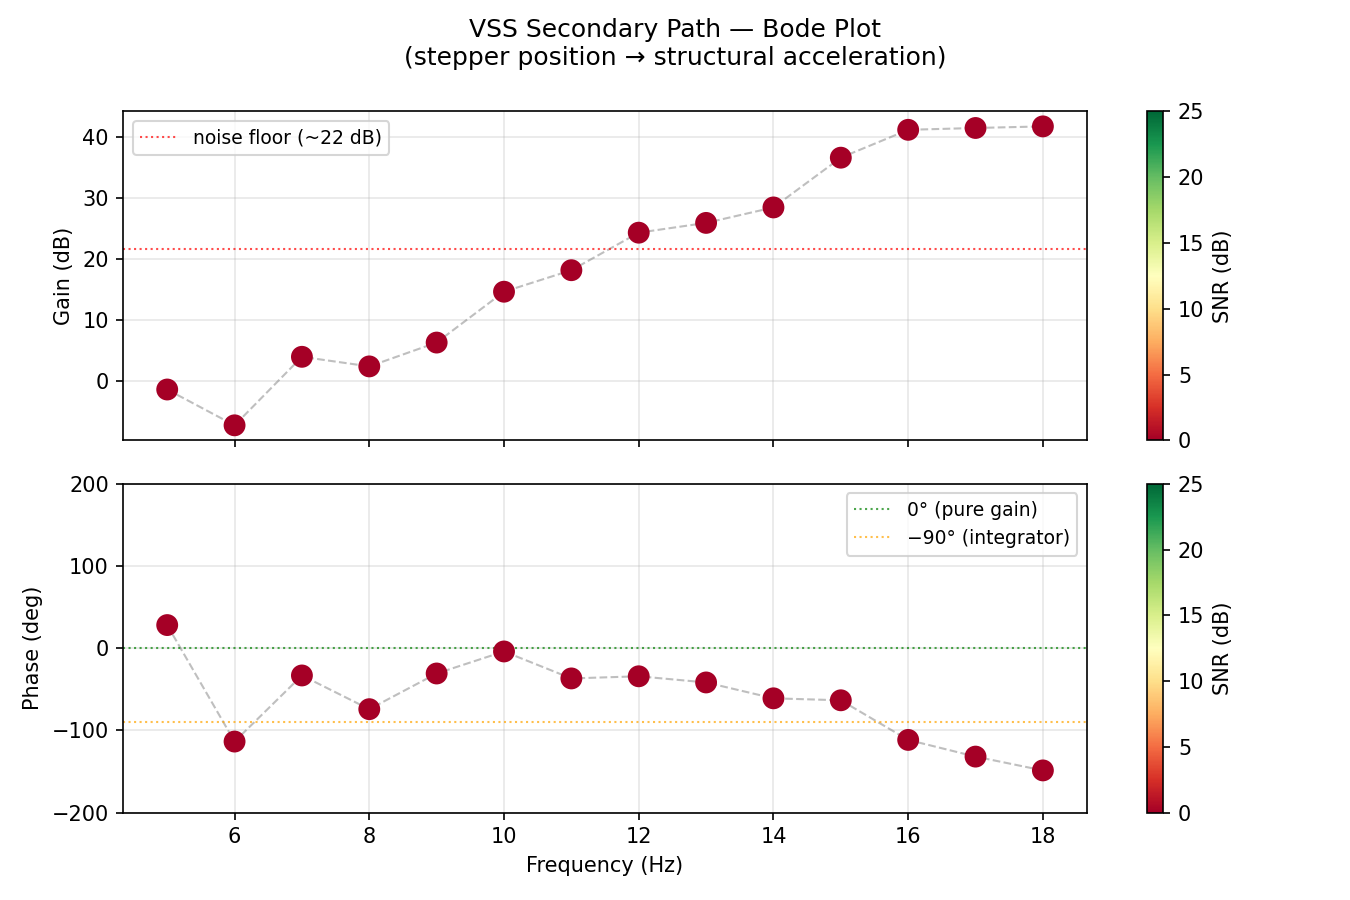
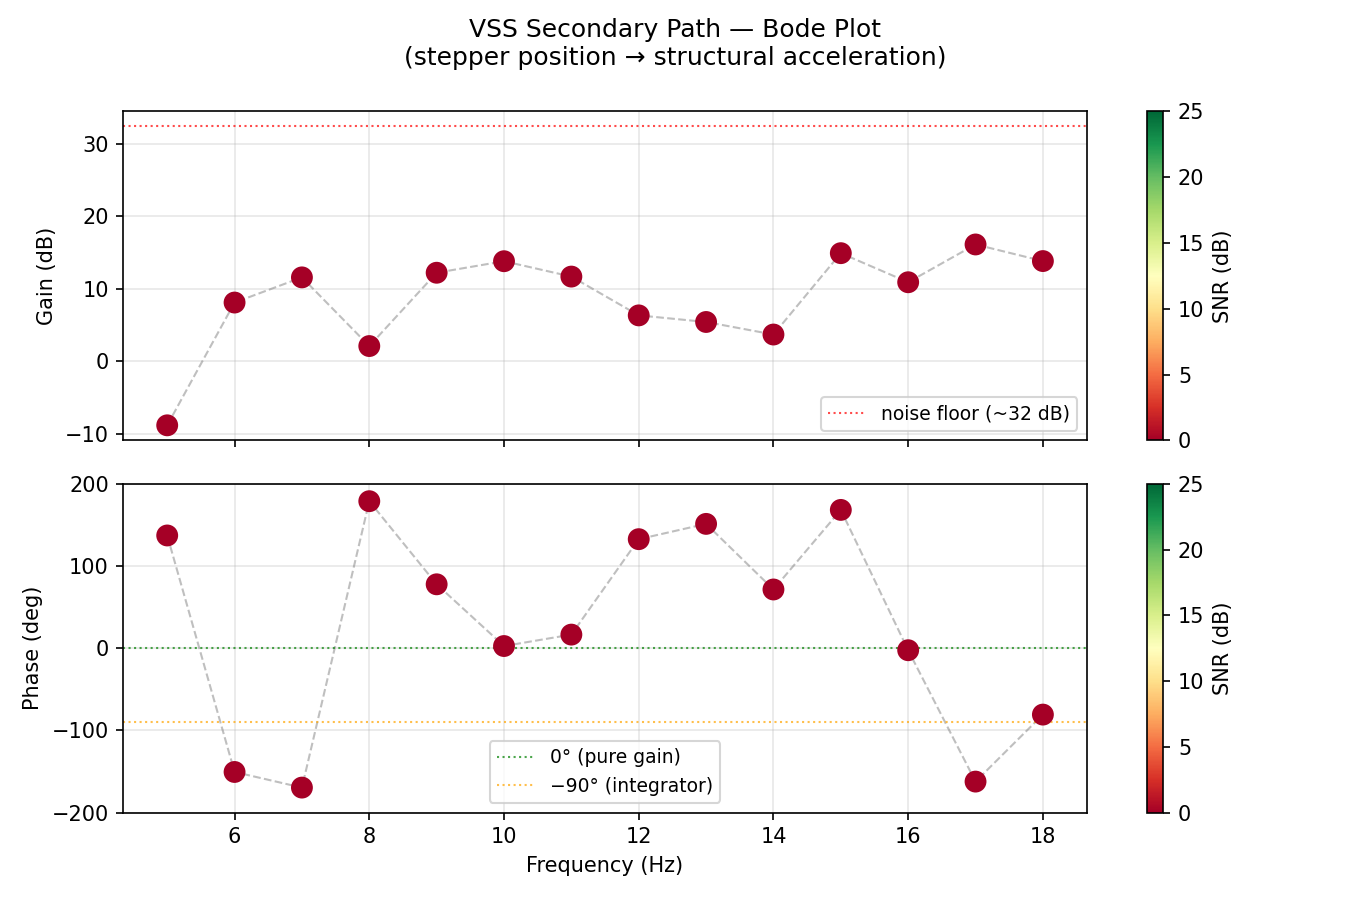
dfgawfr

diff --git a/plant_id.py b/plant_id.py
@@ -22,7 +22,7 @@ Key flags:
   --freqs      Space-separated list of test frequencies in Hz
   --settle     Cycles to discard per frequency (transient, default 4)
   --meas       Cycles to use for sine fitting (default 6)
-  --imu_addr   LSM6DSO I2C address in hex (default 0x6b)
+  --imu_addr   LSM6DSO I2C address in hex (default 0x6a)
   --out_dir    Output directory (default ./plant_id_out)
   --baseline   Measure IMU noise floor before sweep (recommended)
 
@@ -88,7 +88,7 @@ class IMUCapture:
     Timestamps via time.monotonic().
     """
 
-    def __init__(self, bus_num=1, addr=0x6B):
+    def __init__(self, bus_num=1, addr=0x6a):
         self.bus  = smbus2.SMBus(bus_num)
         self.addr = addr
         self._configure()
@@ -342,8 +342,8 @@ def parse_args():
                    help='Settling cycles per frequency (discarded, default 4)')
     p.add_argument('--meas', type=int, default=DEFAULT_MEAS,
                    help='Measurement cycles for sine fit (default 6)')
-    p.add_argument('--imu_addr', type=lambda x: int(x, 0), default=0x6B,
-                   help='LSM6DSO I2C address (default 0x6b)')
+    p.add_argument('--imu_addr', type=lambda x: int(x, 0), default=0x6A,
+                   help='LSM6DSO I2C address (default 0x6a)')
     p.add_argument('--out_dir', type=str, default='./plant_id_out')
     p.add_argument('--baseline', action='store_true',
                    help='Measure IMU noise floor before sweep (recommended)')

diff --git a/waveStepper.py b/waveStepper.py
@@ -212,7 +212,7 @@ def main():
     pi.set_mode(args.dir,  pigpio.OUTPUT)
     pi.set_mode(args.step, pigpio.OUTPUT)
     pi.set_mode(25, pigpio.OUTPUT)
-    pi.write(25, 0)   # enable hardware backstop interlock
+    pi.write(25, 1)   # enable hardware backstop interlock
     pi.wave_clear()
 
     # Set DIR pin to match initial velocity direction before first pulse
@@ -337,14 +337,14 @@ def main():
                     f"exceeds ±{HALF_TRAVEL_MM:.2f} mm."
                 )
 
+            # Free the waveform that just finished
+            pi.wave_delete(wave_id_curr)
+
             # ── Start next chunk immediately ──────────────────────────────
             pi.wave_add_generic(pulses_next)
             wave_id_next     = pi.wave_create()
             pi.wave_send_once(wave_id_next)
             chunk_wall_start = time.monotonic()
-
-            # Free the waveform that just finished
-            pi.wave_delete(wave_id_curr)
 
             # Push status (non-blocking: skip if bg thread holds lock)
             if status_lock.acquire(blocking=False):
